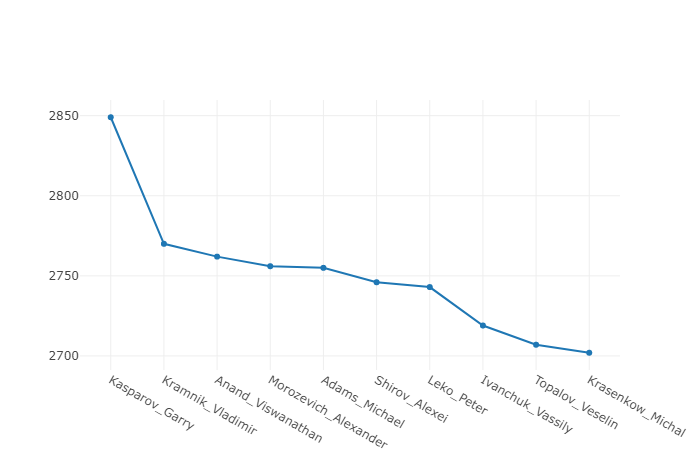
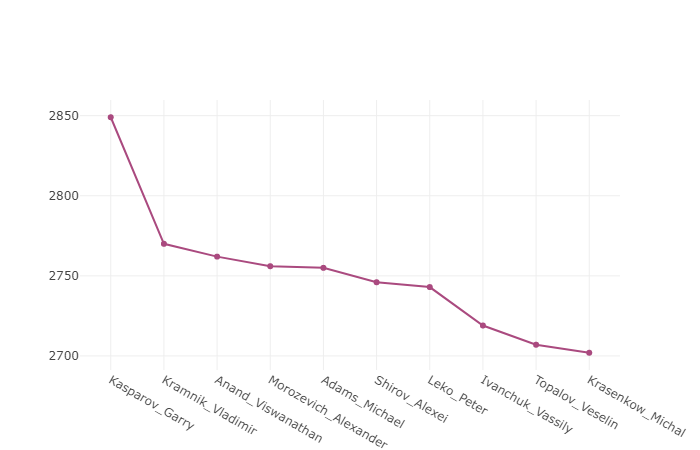
Changed graph color to pink

diff --git a/static/player_bar_chart.js b/static/player_bar_chart.js
@@ -31,7 +31,9 @@ d3.json(sample).then(function(data) {
         y: slicedRating,
         text: slicedName,
         name: "Player by Rating Chart",
-        type: "scatter",
+        marker:{
+            color: '#AA4A7F'
+        }
         // orientation: "h"
         };
   
